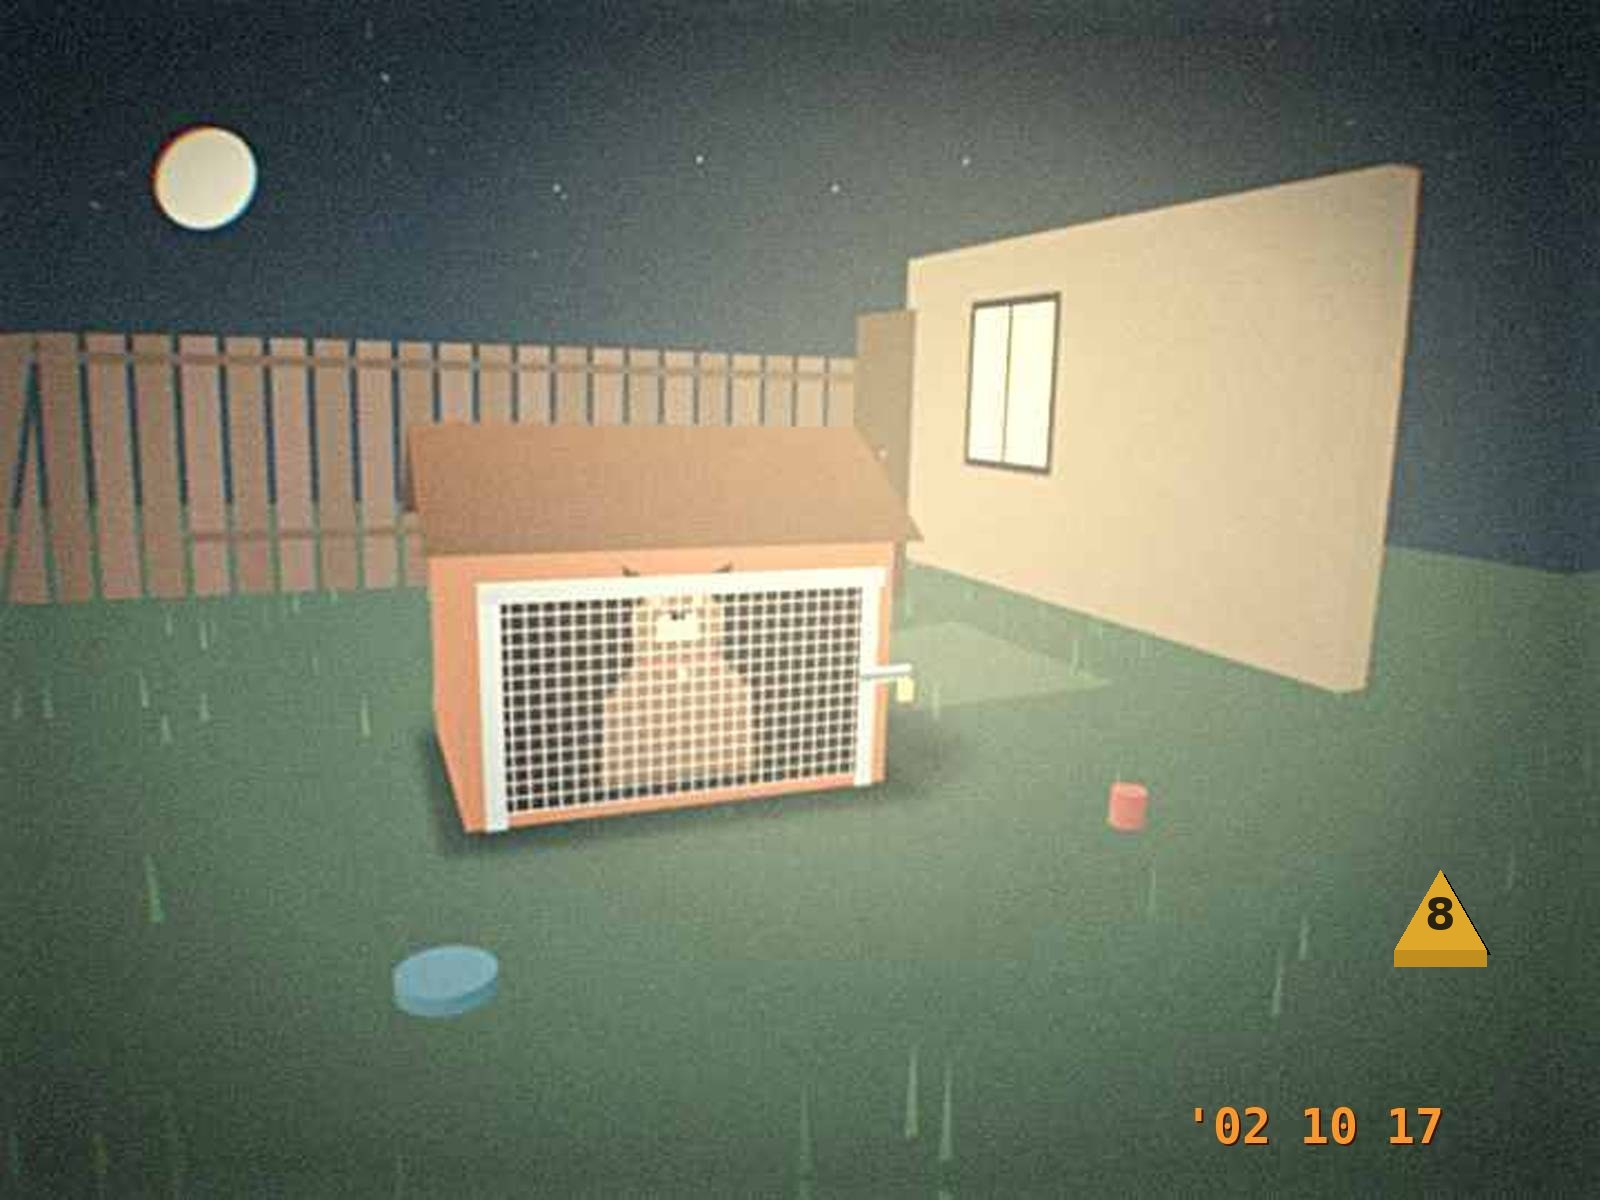
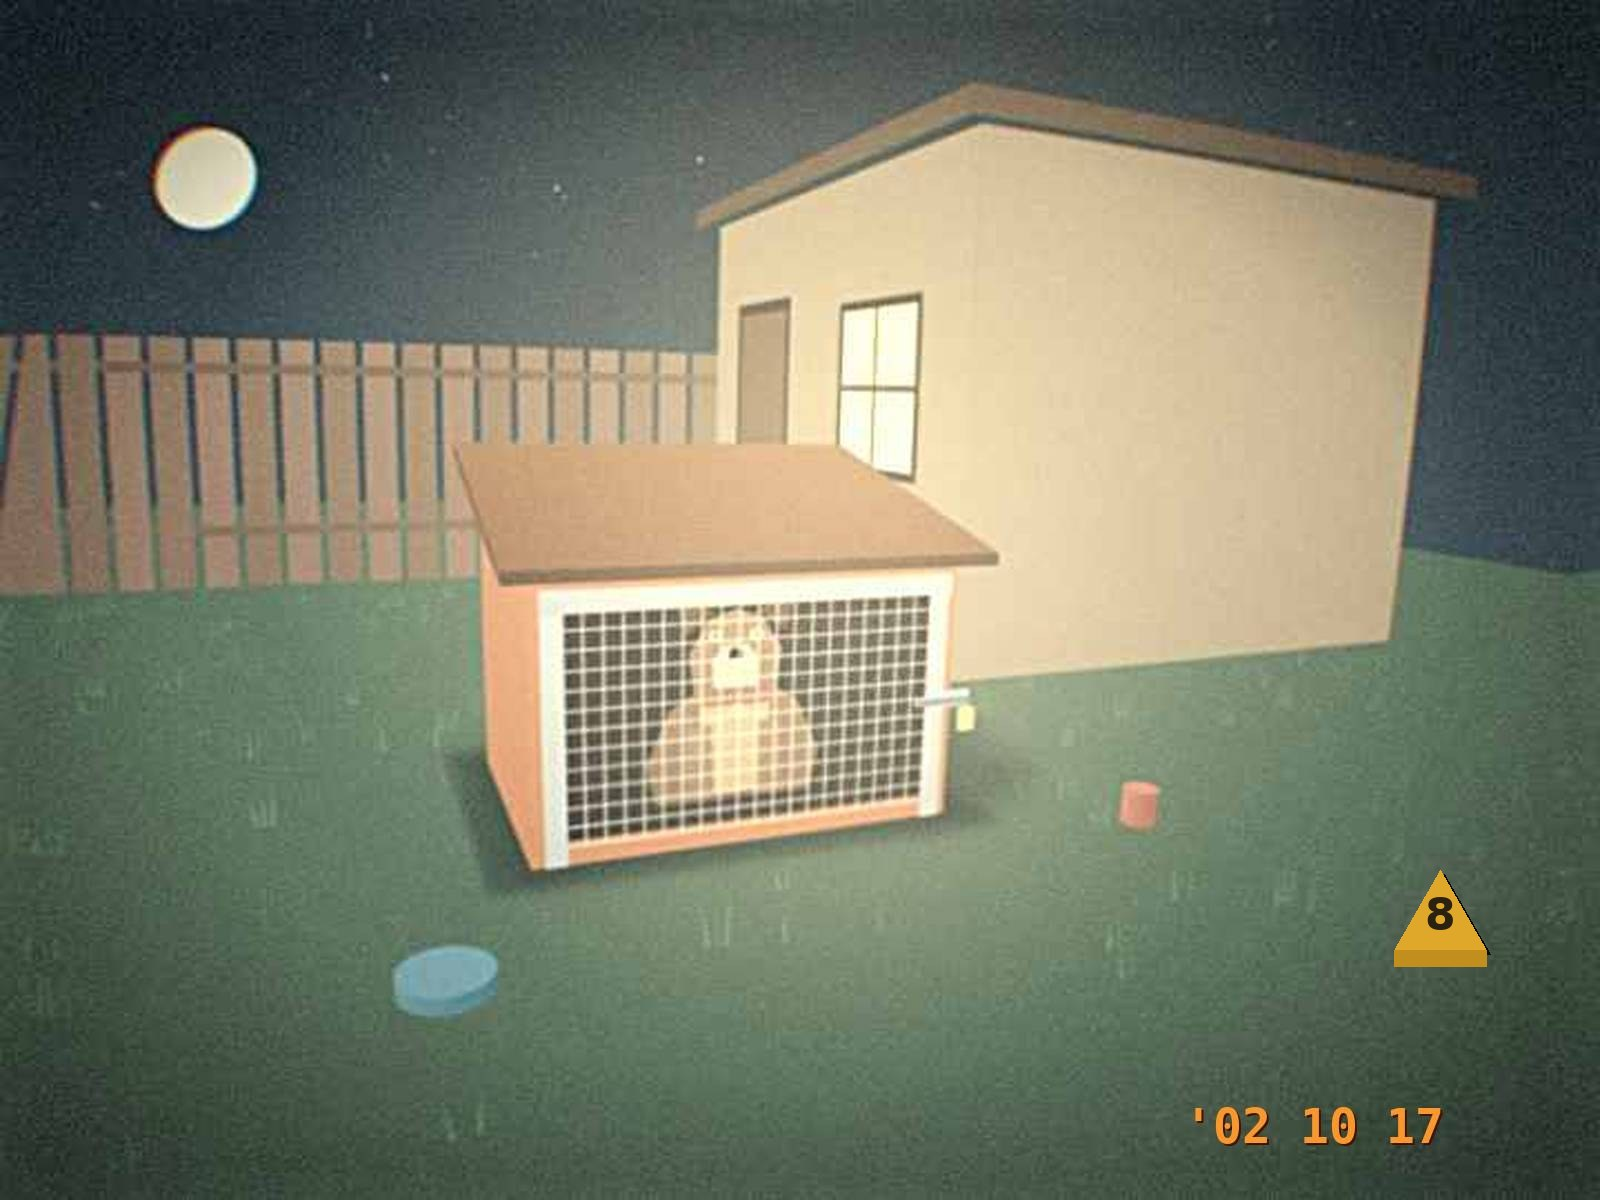
Corrige a cena do canil: telhado, cão, casa e grama (#122)
- canil com telhado inclinado e espessura, sem a aba solta
- Thor desenhado de frente (cabeça, focinho, orelhas, olhos, coleira), visível atrás da grade
- casa como volume com porta, janela acesa e telhado; sem lâmina solta
- grama em tufos curtos, sem espinhos gigantes

Claude-Session: https://claude.ai/code/session_01Ca2uey9G1wANVTd1hU6UsR

diff --git a/tools/scene-render/scenes2.py b/tools/scene-render/scenes2.py
@@ -54,53 +54,72 @@ def canil():
     for i in range(36): S.dot(rnd.uniform(0,1600),rnd.uniform(0,260),rnd.choice([1.5,2,2.5]),'#dfe8f5',rnd.uniform(.4,.9))
     S.dot(215,170,52,'#ebe6cc',.95)
     S.poly([(-9,0,-1),(9,0,-1),(9,0,14),(-9,0,14)],'#2c4a3a',.5,.12,depth=1.9e3)
-    # grama
-    for i in range(160):
-        x=rnd.uniform(-3,3.5);z=rnd.uniform(.3,8)
-        S.poly([(x,0.002,z),(x+.03,0.002,z),(x+.012,.13+rnd.random()*.1,z+.01)],rnd.choice(['#3a6a48','#2f5a3c','#4a7a50']),.5,.05,depth=1.8e3-z)
-    # cerca
-    for i in range(0,34):
-        x=-4+i*.27;S.box((x,.85,8.0),(.22,1.7,.03),'#6a5240' if i%2 else '#74594a',bias=60)
-    S.box((0,1.55,7.97),(9.6,.07,.03),'#5a4333',bias=59); S.box((0,.4,7.97),(9.6,.07,.03),'#5a4333',bias=59)
-    # casa
-    S.box((3.2,1.3,6.2),(.2,2.6,4.8),'#8a7a62'); 
-    hw=S.plane((2.09,0,0),(0,0,1),(0,1,0))
-    S.shape(hw,rect(.9,1.0,5.0,1.0),'#2a2a2a',.3,0,depth=6.2-.2)
-    S.shape(hw,rect(.8,.9,5.05,1.05),'#f2e3a0',.9,.05,depth=6.2-.3)
-    S.shape(hw,rect(.04,.9,5.45,1.05),'#4a3a2a',.4,0,depth=6.2-.4)
-    S.shape(hw,rect(.9,2.0,6.6,0),'#5a4630',.4,.06,depth=6.2-.3); S.shape(hw,[(7.0+.02*math.cos(i),1.0+.02*math.sin(i)) for i in range(0,7)],'#d6b257',.7,0,depth=6.2-.5)
-    S.poly([(2.09,0,4.3),(2.09,0,5.9),(0.7,0,5.5),(0.3,0,4.2)],'#e8d9a0',.5,0,depth=1.8e3-30,op=.12)
-    # canil
-    kx,kz=-0.45,3.9
-    S.floor_shadow(kx-.8,kz-.6,kx+.8,kz+.6,1.1,.5)
-    S.box((kx,.45,kz+.1),(1.5,.9,1.1),'#a05a36')
-    fr=S.plane((kx-.65,0,kz-.46),(1,0,0),(0,1,0))
-    S.shape(fr,rect(1.3,.7,0,.05),'#16100b',.3,0,depth=kz-.5)
-    # cão dentro (plano ao fundo)
-    dp=S.plane((kx-.65,0,kz-.30),(1,0,0),(0,1,0))
-    cx=.65
-    S.shape(dp,[(cx-.28,.05),(cx+.3,.05),(cx+.28,.35),(cx+.12,.52),(cx-.12,.52),(cx-.26,.35)],'#6b4a2f',.5,.1,depth=kz-.6)
-    S.shape(dp,[(cx-.14,.48),(cx+.14,.48),(cx+.17,.64),(cx+.08,.76),(cx-.08,.76),(cx-.17,.64)],'#7a5636',.5,.1,depth=kz-.65)
-    S.shape(dp,[(cx-.17,.7),(cx-.2,.82),(cx-.08,.76)],'#4e331f',.4,0,depth=kz-.66); S.shape(dp,[(cx+.17,.7),(cx+.2,.82),(cx+.08,.76)],'#4e331f',.4,0,depth=kz-.66)
-    S.shape(dp,[(cx-.08,.55),(cx+.08,.55),(cx+.07,.64),(cx-.07,.64)],'#c9a57a',.6,0,depth=kz-.67)
-    S.shape(dp,[(cx-.025,.62),(cx+.025,.62),(cx+.02,.65),(cx-.02,.65)],'#1b130d',.3,0,depth=kz-.68)
-    for ex in (-.075,.075): S.shape(dp,[(cx+ex+.014*math.cos(i*PI/5),.69+.014*math.sin(i*PI/5)) for i in range(10)],'#f3e1a0',.9,0,depth=kz-.68)
-    S.shape(dp,[(cx-.15,.48),(cx+.15,.48),(cx+.15,.45),(cx-.15,.45)],'#b03a3a',.5,0,depth=kz-.66); S.shape(dp,[(cx+.02+.018*math.cos(i*PI/5),.43+.018*math.sin(i*PI/5)) for i in range(10)],'#e0c068',.8,0,depth=kz-.67)
-    # grade (malha) e postes
-    gm=S.plane((kx-.65,0,kz-.47),(1,0,0),(0,1,0))
-    for i in range(0,27): S.shape(gm,rect(.008,.7,i*.05,.05),'#b7bfc4',.6,0,depth=kz-.8,op=.85)
-    for j in range(0,15): S.shape(gm,rect(1.3,.008,0,.05+j*.05),'#b7bfc4',.6,0,depth=kz-.8,op=.85)
-    S.shape(gm,rect(.07,.78,-.04,.0),'#9aa4aa',.55,.1,depth=kz-.9); S.shape(gm,rect(.07,.78,1.27,.0),'#9aa4aa',.55,.1,depth=kz-.9); S.shape(gm,rect(1.4,.07,-.04,.74),'#9aa4aa',.55,.1,depth=kz-.9)
-    # telhado
-    S.poly([(kx-.85,.9,kz-.5),(kx+.85,.9,kz-.5),(kx+.85,1.28,kz+.1),(kx-.85,1.28,kz+.1)],'#7a4a2a',.45,.1,bias=-.5)
-    S.poly([(kx-.85,1.28,kz+.1),(kx+.85,1.28,kz+.1),(kx+.85,.9,kz+.7),(kx-.85,.9,kz+.7)],'#5a3820',.3,.1,bias=-.5)
-    # ferrolho por fora (lateral direita, fechado) + cadeado
-    lx=kx+.74
-    S.box((lx,.42,kz-.48),(.16,.05,.015),'#aeb6bb',bias=-1.2); S.box((lx-.03,.42,kz-.50),(.2,.02,.02),'#5c666c',bias=-1.25)
-    S.box((lx+.05,.36,kz-.51),(.05,.07,.02),'#d6b257',bias=-1.3)
-    # objetos
-    S.cyl(-1.35,2.5,.12,0,.05,'#2d6b8a',bias=-.1); S.cyl(.9,2.8,.06,0,.12,'#a24b3d',bias=-.1)
-    return S,[(*sp(S,(2.0,1.4,5.2)),600,'#ffe3a0',.32),(*sp(S,(kx,.5,kz-.6)),380,'#ffd9a0',.12)]
+    # grama: tufos curtos e finos, só longe da câmera (sem espinhos gigantes)
+    for i in range(260):
+        x=rnd.uniform(-3.5,4);z=rnd.uniform(1.4,7.6);hgt=.06+rnd.random()*.07
+        for k in range(3):
+            xx=x+k*.025
+            S.poly([(xx,0.002,z),(xx+.014,0.002,z),(xx+.004+(k-1)*.012,hgt+k*.01,z+.004)],rnd.choice(['#3a6a48','#2f5a3c','#4a7a50']),.5,.05,depth=1.8e3-z)
+    # cerca ao fundo (tábuas e travessas)
+    for i in range(0,40):
+        x=-4.5+i*.27;S.box((x,.85,8.3),(.22,1.7,.03),'#6a5240' if i%2 else '#74594a',bias=60)
+    S.box((0,1.5,8.27),(11,.07,.03),'#5a4333',bias=59); S.box((0,.4,8.27),(11,.07,.03),'#5a4333',bias=59)
+    # casa (caixa com duas faces visíveis, telhado e porta)
+    hx0,hz0=1.3,4.6
+    S.box((hx0+1.6,1.35,hz0+1.9),(3.2,2.7,3.8),'#8a7a62')
+    S.box((hx0+1.6,2.76,hz0+1.9),(3.5,.14,4.1),'#4a3a2c',bias=-.2)
+    hw=S.plane((hx0-.004,0,0),(0,0,1),(0,1,0))
+    dh=float(S.cam.cs((hx0,1.35,hz0+1.9))[2]);k=[0]
+    def D():
+        k[0]+=.01;return dh-k[0]
+    S.shape(hw,rect(1.0,1.0,hz0+.5,.95),'#241f1a',.3,0,depth=D())
+    S.shape(hw,rect(.9,.9,hz0+.55,1.0),'#f2e3a0',.9,.05,depth=D())
+    S.shape(hw,rect(.04,.9,hz0+1.0,1.0),'#4a3a2a',.4,0,depth=D()); S.shape(hw,rect(.9,.04,hz0+.55,1.43),'#4a3a2a',.4,0,depth=D())
+    S.shape(hw,rect(1.0,2.05,hz0+2.3,0),'#2a2018',.3,0,depth=D()); S.shape(hw,rect(.88,1.97,hz0+2.36,0),'#5a4630',.45,.06,depth=D())
+    S.shape(hw,[(hz0+3.1+.025*math.cos(i*PI/6),1.0+.025*math.sin(i*PI/6)) for i in range(12)],'#d6b257',.7,0,depth=D())
+    S.box((hx0-.2,.06,hz0+2.8),(.4,.12,1.1),'#6a6258',bias=-.5)
+    S.poly([(hx0,.01,hz0+.5),(hx0,.01,hz0+1.5),(hx0-1.7,.01,hz0+1.9),(hx0-1.7,.01,hz0-.1)],'#f2e3a0',.6,0,depth=1.7e3,op=.10,extra='filter="url(#bl2)"')
+    # ---- canil
+    kx,kz=-0.35,3.6;L,Rr,F,B=kx-.7,kx+.7,kz-.5,kz+.5
+    S.floor_shadow(L-.1,F-.1,Rr+.1,B+.1,1.1,.5)
+    d0=float(S.cam.cs((kx,.5,kz))[2]);j=[0]
+    def E():
+        j[0]+=.01;return d0-j[0]
+    S.poly([(L,0,F),(L,0,B),(L,1.15,B),(L,.95,F)],'#a05a36',S.faceT(np.array([-1,0,0])),.06,depth=d0+.5)
+    S.poly([(L,0,F),(Rr,0,F),(Rr,.95,F),(L,.95,F)],'#a8603a',S.faceT(np.array([0,0,-1])),.06,depth=d0+.4)
+    fr=S.plane((L+.1,0,F-.004),(1,0,0),(0,1,0))
+    S.shape(fr,rect(1.2,.7,0,.08),'#14100b',.3,0,depth=E())
+    # cão sentado, de frente, dentro do canil
+    cx=.6
+    dp=S.plane((L+.1,0,F+.18),(1,0,0),(0,1,0));dd=E()
+    def P(pts,col,t=.5,g=.1,o=1): S.shape(dp,pts,col,t,g,depth=E(),op=o)
+    P([(cx-.27,.08),(cx+.27,.08),(cx+.30,.22),(cx+.22,.40),(cx+.12,.46),(cx-.12,.46),(cx-.22,.40),(cx-.30,.22)],'#6b4a2f')
+    P([(cx-.10,.10),(cx+.10,.10),(cx+.12,.40),(cx-.12,.40)],'#a98456',.55,.08)
+    P([(cx-.17,.08),(cx-.07,.08),(cx-.08,.34),(cx-.16,.34)],'#7a5636',.5,.1); P([(cx+.07,.08),(cx+.17,.08),(cx+.16,.34),(cx+.08,.34)],'#7a5636',.5,.1)
+    P([(cx-.14,.44),(cx-.16,.58),(cx-.09,.69),(cx,.72),(cx+.09,.69),(cx+.16,.58),(cx+.14,.44),(cx+.07,.40),(cx-.07,.40)],'#7a5636',.55,.1)
+    P([(cx-.17,.64),(cx-.22,.80),(cx-.07,.71)],'#4e331f',.4,.05); P([(cx+.17,.64),(cx+.22,.80),(cx+.07,.71)],'#4e331f',.4,.05)
+    P([(cx-.075,.46),(cx+.075,.46),(cx+.08,.55),(cx+.04,.60),(cx-.04,.60),(cx-.08,.55)],'#c9a57a',.6,.08)
+    P([(cx-.026,.555),(cx+.026,.555),(cx+.02,.59),(cx-.02,.59)],'#1b130d',.3,0)
+    for ex in (-.07,.07):
+        P([(cx+ex+.022*math.cos(i*PI/6),.635+.014*math.sin(i*PI/6)) for i in range(12)],'#f3e1a0',.9,0)
+        P([(cx+ex+.008*math.cos(i*PI/6),.635+.008*math.sin(i*PI/6)) for i in range(12)],'#15100a',.3,0)
+    P([(cx-.14,.43),(cx+.14,.43),(cx+.14,.405),(cx-.14,.405)],'#b03a3a',.5,.05); P([(cx+.012+.018*math.cos(i*PI/6),.385+.018*math.sin(i*PI/6)) for i in range(12)],'#e0c068',.8,0)
+    # grade e postes
+    gm=S.plane((L+.1,0,F-.01),(1,0,0),(0,1,0))
+    for i in range(0,21): S.shape(gm,rect(.007,.74,i*.06,.06),'#b7bfc4',.6,0,depth=E()-.5,op=.8)
+    for jj in range(0,13): S.shape(gm,rect(1.2,.007,0,.06+jj*.06),'#b7bfc4',.6,0,depth=E()-.5,op=.8)
+    for ux,wd in ((-.06,.07),(1.2,.07)): S.shape(gm,rect(wd,.84,ux,0),'#9aa4aa',.55,.1,depth=E()-.6)
+    S.shape(gm,rect(1.34,.07,-.06,.77),'#9aa4aa',.55,.1,depth=E()-.6)
+    # telhado inclinado com espessura (baixo na frente, alto atrás)
+    S.poly([(L-.08,.92,F-.12),(Rr+.08,.92,F-.12),(Rr+.08,1.2,B+.1),(L-.08,1.2,B+.1)],'#7a4a2a',.5,.1,depth=E()-.7)
+    S.poly([(L-.08,.88,F-.12),(Rr+.08,.88,F-.12),(Rr+.08,.92,F-.12),(L-.08,.92,F-.12)],'#4a2d18',.35,0,depth=E()-.71)
+    S.poly([(L-.08,.88,F-.12),(L-.08,.92,F-.12),(L-.08,1.2,B+.1),(L-.08,1.16,B+.1)],'#5a3820',.4,0,depth=E()-.71)
+    # ferrolho por fora (lado direito, fechado) + cadeado
+    lx=Rr-.02
+    S.box((lx,.42,F-.03),(.14,.05,.014),'#aeb6bb',bias=-1.2); S.box((lx-.04,.42,F-.05),(.2,.022,.022),'#5c666c',bias=-1.25)
+    S.box((lx+.05,.355,F-.06),(.05,.075,.02),'#d6b257',bias=-1.3)
+    S.cyl(-1.35,2.5,.12,0,.05,'#2d6b8a',bias=0); S.cyl(.95,2.8,.06,0,.12,'#a24b3d',bias=0)
+    return S,[(*sp(S,(hx0-.1,1.4,hz0+1.0)),620,'#ffe3a0',.30),(*sp(S,(kx,.5,F-.6)),380,'#ffd9a0',.12)]
 def painel():
     S=Scene(Cam((-0.2,1.36,1.42),(0.035,1.4,2.0),fov=50,roll=3.5))
     R=Room(S,X0=-1.5,X1=1.5,Z0=-1,Z1=2.0,YH=2.5,wall='#5a6a76',floor='#4a4036',stripes=False,planks=False,wall_t=(.58,.45,.48),seed=2)
